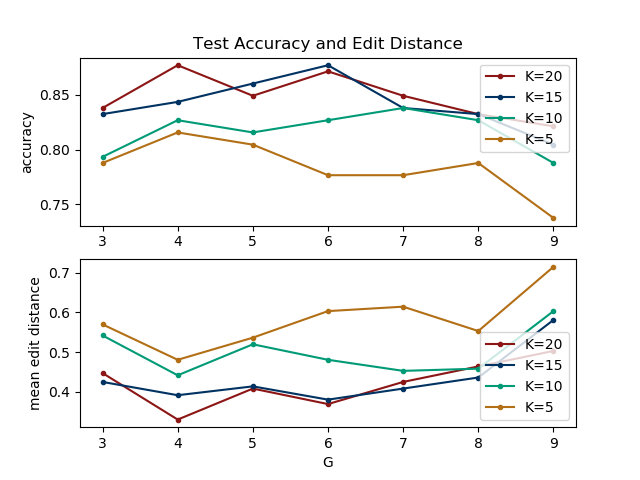
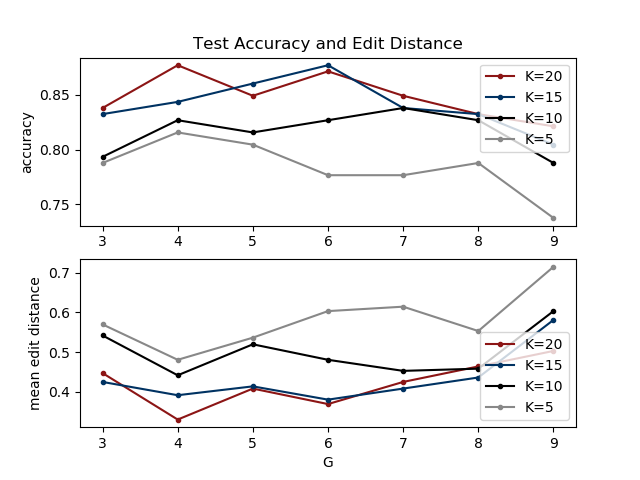
plot.style

diff --git a/src/g_plot.py b/src/g_plot.py
@@ -9,8 +9,8 @@ SAVE_PATH = '../output/g_search/'
 COLORS = [
     '#8c1515',
     '#003262',
-    '#009b76',
-    '#b26f16',
+    '#000000',
+    '#888888',
 ]
 
 
